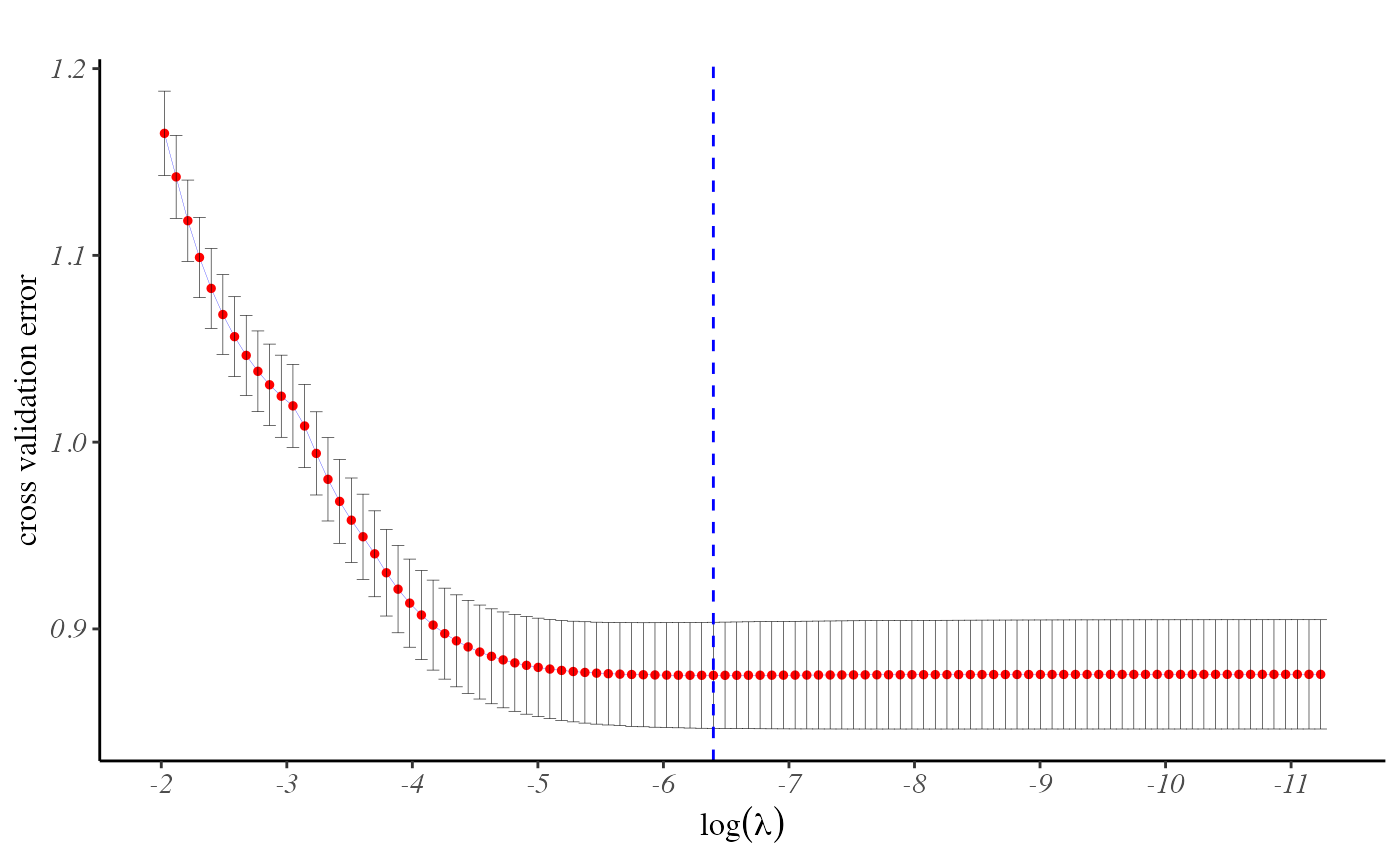
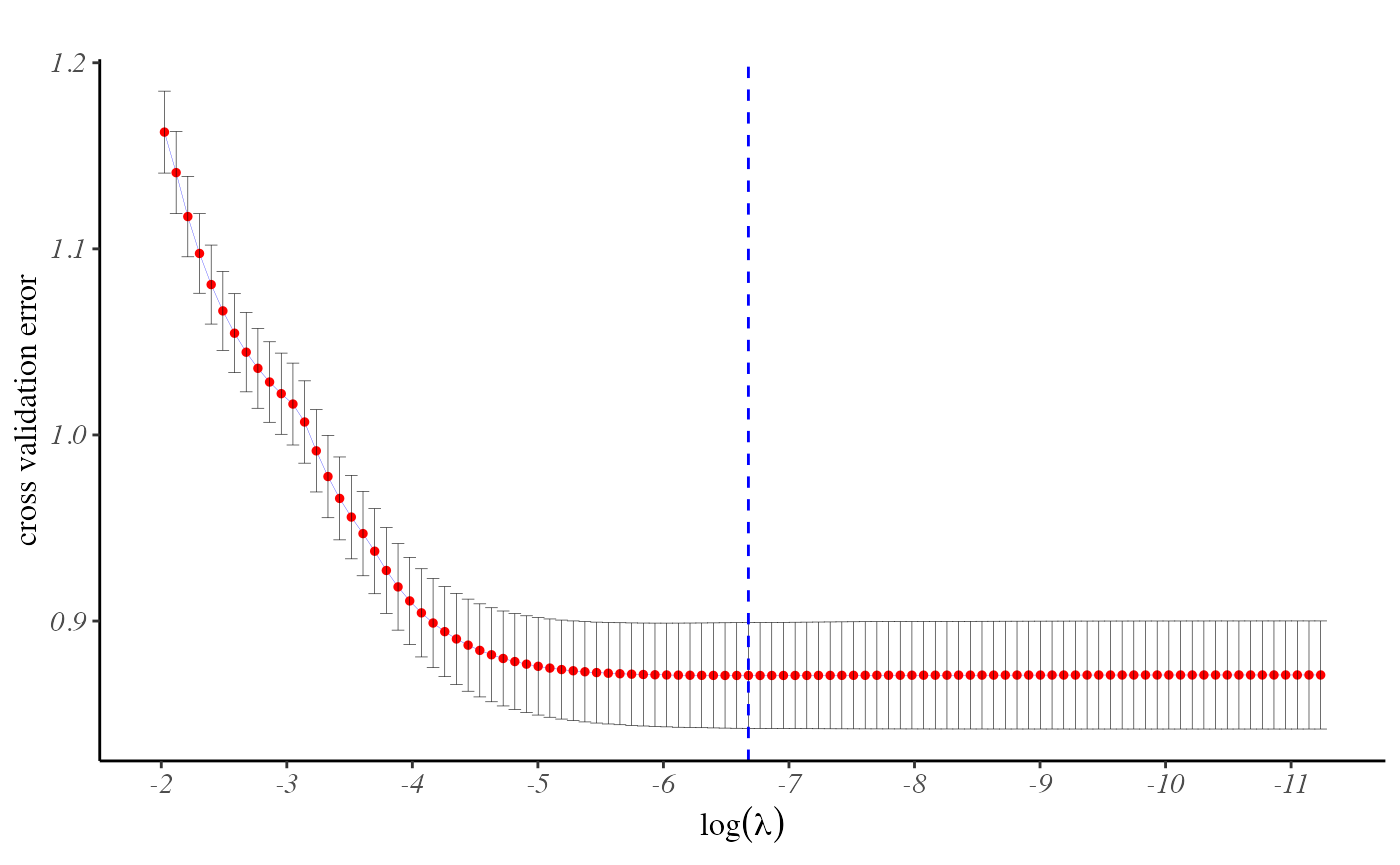
new commit

diff --git a/docs/articles/ppLasso.html b/docs/articles/ppLasso.html
@@ -133,13 +133,13 @@ information, and a binary outcome variable.</p>
 <span><span class="va">prov.char</span> <span class="op">&lt;-</span> <span class="va">GLM_Data</span><span class="op">$</span><span class="va">prov.char</span> <span class="co"># variable name of provider indicator</span></span>
 <span><span class="va">Z.char</span> <span class="op">&lt;-</span> <span class="va">GLM_Data</span><span class="op">$</span><span class="va">Z.char</span> <span class="co"># variable names of predictors</span></span>
 <span><span class="fu"><a href="https://rdrr.io/r/utils/head.html" class="external-link">head</a></span><span class="op">(</span><span class="va">data</span><span class="op">)</span></span>
-<span><span class="co">#&gt;      Y Prov.ID     Z1     Z2     Z3     Z4     Z5</span></span>
-<span><span class="co">#&gt; 733  1      10 -0.006 -0.159  0.588  0.378 -1.430</span></span>
-<span><span class="co">#&gt; 853  0      11  0.862 -0.162  0.243  0.503  0.549</span></span>
-<span><span class="co">#&gt; 813  0      11  0.453  0.961  0.665  0.522  0.859</span></span>
-<span><span class="co">#&gt; 576  1       8 -0.286  0.001  0.903  0.886 -0.324</span></span>
-<span><span class="co">#&gt; 968  0      13  0.564 -0.194 -0.062 -0.792 -0.783</span></span>
-<span><span class="co">#&gt; 1382 1      18  0.676  1.095  2.223  1.367  1.060</span></span></code></pre></div>
+<span><span class="co">#&gt;   Y Prov.ID     Z1     Z2     Z3     Z4     Z5</span></span>
+<span><span class="co">#&gt; 1 1      10 -0.006 -0.159  0.588  0.378 -1.430</span></span>
+<span><span class="co">#&gt; 2 0      11  0.862 -0.162  0.243  0.503  0.549</span></span>
+<span><span class="co">#&gt; 3 0      11  0.453  0.961  0.665  0.522  0.859</span></span>
+<span><span class="co">#&gt; 4 1       8 -0.286  0.001  0.903  0.886 -0.324</span></span>
+<span><span class="co">#&gt; 5 0      13  0.564 -0.194 -0.062 -0.792 -0.783</span></span>
+<span><span class="co">#&gt; 6 1      18  0.676  1.095  2.223  1.367  1.060</span></span></code></pre></div>
 <div class="section level4">
 <h4 id="without-grouped-covariate">without grouped covariate<a class="anchor" aria-label="anchor" href="#without-grouped-covariate"></a>
 </h4>
@@ -201,17 +201,17 @@ probabilities of “Y = 1” for each observation, while <strong>type =
 “class”</strong> provides the predicted class.</p>
 <div class="sourceCode" id="cb7"><pre class="downlit sourceCode r">
 <code class="sourceCode R"><span><span class="fu"><a href="https://rdrr.io/r/stats/predict.html" class="external-link">predict</a></span><span class="op">(</span><span class="va">fit</span>, <span class="va">data</span>, <span class="va">Z.char</span>, <span class="va">prov.char</span>, lambda <span class="op">=</span> <span class="va">fit</span><span class="op">$</span><span class="va">lambda</span>, type <span class="op">=</span> <span class="st">"response"</span><span class="op">)</span><span class="op">[</span><span class="fl">1</span><span class="op">:</span><span class="fl">10</span>, <span class="fl">1</span><span class="op">:</span><span class="fl">5</span><span class="op">]</span></span>
-<span><span class="co">#&gt;          0.132    0.1202    0.1096    0.0998     0.091</span></span>
-<span><span class="co">#&gt; 733  0.2874999 0.2996927 0.3106971 0.3206762 0.3297643</span></span>
-<span><span class="co">#&gt; 853  0.2051302 0.2112109 0.2163924 0.2208163 0.2246015</span></span>
-<span><span class="co">#&gt; 813  0.2051302 0.2191951 0.2321638 0.2441339 0.2551989</span></span>
-<span><span class="co">#&gt; 576  0.3947391 0.4208778 0.4449423 0.4671087 0.4875485</span></span>
-<span><span class="co">#&gt; 968  0.2345694 0.2340619 0.2330311 0.2316163 0.2299295</span></span>
-<span><span class="co">#&gt; 1382 0.3188411 0.3744516 0.4280555 0.4786478 0.5256182</span></span>
-<span><span class="co">#&gt; 1072 0.3924033 0.3836025 0.3752418 0.3673071 0.3597819</span></span>
-<span><span class="co">#&gt; 330  0.3658512 0.3870533 0.4065558 0.4245437 0.4411742</span></span>
-<span><span class="co">#&gt; 204  0.2298886 0.2256943 0.2215601 0.2175107 0.2135686</span></span>
-<span><span class="co">#&gt; 614  0.3947391 0.4374814 0.4772352 0.5139266 0.5476058</span></span>
+<span><span class="co">#&gt;           0.132    0.1202    0.1096    0.0998     0.091</span></span>
+<span><span class="co">#&gt;  [1,] 0.2874999 0.2996927 0.3106971 0.3206762 0.3297643</span></span>
+<span><span class="co">#&gt;  [2,] 0.2051302 0.2112109 0.2163924 0.2208163 0.2246015</span></span>
+<span><span class="co">#&gt;  [3,] 0.2051302 0.2191951 0.2321638 0.2441339 0.2551989</span></span>
+<span><span class="co">#&gt;  [4,] 0.3947391 0.4208778 0.4449423 0.4671087 0.4875485</span></span>
+<span><span class="co">#&gt;  [5,] 0.2345694 0.2340619 0.2330311 0.2316163 0.2299295</span></span>
+<span><span class="co">#&gt;  [6,] 0.3188411 0.3744516 0.4280555 0.4786478 0.5256182</span></span>
+<span><span class="co">#&gt;  [7,] 0.3924033 0.3836025 0.3752418 0.3673071 0.3597819</span></span>
+<span><span class="co">#&gt;  [8,] 0.3658512 0.3870533 0.4065558 0.4245437 0.4411742</span></span>
+<span><span class="co">#&gt;  [9,] 0.2298886 0.2256943 0.2215601 0.2175107 0.2135686</span></span>
+<span><span class="co">#&gt; [10,] 0.3947391 0.4374814 0.4772352 0.5139266 0.5476058</span></span>
 <span><span class="fu"><a href="https://rdrr.io/r/stats/predict.html" class="external-link">predict</a></span><span class="op">(</span><span class="va">fit</span>, <span class="va">data</span>, <span class="va">Z.char</span>, <span class="va">prov.char</span>, lambda <span class="op">=</span> <span class="fl">0.001</span>, type <span class="op">=</span> <span class="st">"class"</span><span class="op">)</span><span class="op">[</span><span class="fl">1</span><span class="op">:</span><span class="fl">10</span><span class="op">]</span></span>
 <span><span class="co">#&gt;  [1] 1 0 0 1 0 1 0 1 0 1</span></span></code></pre></div>
 </div>
@@ -260,7 +260,7 @@ cross-entropy loss is minimized.</p>
 command to obtain the optimal value of <span class="math inline">\(\lambda\)</span>.</p>
 <div class="sourceCode" id="cb11"><pre class="downlit sourceCode r">
 <code class="sourceCode R"><span><span class="va">fit</span><span class="op">$</span><span class="va">lambda.min</span></span>
-<span><span class="co">#&gt; [1] 0.001665105</span></span></code></pre></div>
+<span><span class="co">#&gt; [1] 0.001259591</span></span></code></pre></div>
 </div>
 </div>
 <div class="section level3">
@@ -284,12 +284,12 @@ illustrate how to utilize it.</p>
 <span><span class="va">Time.char</span> <span class="op">&lt;-</span> <span class="va">Surv_Data</span><span class="op">$</span><span class="va">Time.char</span></span>
 <span><span class="fu"><a href="https://rdrr.io/r/utils/head.html" class="external-link">head</a></span><span class="op">(</span><span class="va">data</span><span class="op">)</span></span>
 <span><span class="co">#&gt;   Prov.ID     Z1     Z2     Z3     Z4     Z5  time status</span></span>
-<span><span class="co">#&gt; 1       1  0.003 -0.012  0.077  0.128 -0.317 12.50      0</span></span>
-<span><span class="co">#&gt; 2       1  0.202  0.398 -0.843  1.011  0.006  6.74      1</span></span>
-<span><span class="co">#&gt; 3       1 -0.198  1.231  0.633  0.739  0.214  6.74      1</span></span>
-<span><span class="co">#&gt; 4       1 -0.077 -0.949 -0.779 -0.236 -0.862 12.50      1</span></span>
-<span><span class="co">#&gt; 5       1 -0.252 -0.817 -1.184 -1.380 -1.517  0.53      1</span></span>
-<span><span class="co">#&gt; 6       1 -1.014 -0.432 -1.259 -0.427 -0.433  6.74      1</span></span></code></pre></div>
+<span><span class="co">#&gt; 1       4 -1.298 -1.471 -1.346 -1.775 -1.241  1.03      1</span></span>
+<span><span class="co">#&gt; 2       5  0.192  0.163  0.953  1.083  0.371 12.50      0</span></span>
+<span><span class="co">#&gt; 3       4 -2.315 -2.038 -1.629 -2.577 -2.008  0.53      1</span></span>
+<span><span class="co">#&gt; 4       1 -0.198  1.231  0.633  0.739  0.214  6.74      1</span></span>
+<span><span class="co">#&gt; 5       2  0.469  0.640 -0.583  0.161  0.927 12.50      0</span></span>
+<span><span class="co">#&gt; 6       4 -1.445 -1.848 -3.024 -2.117 -1.894  0.53      1</span></span></code></pre></div>
 <div class="sourceCode" id="cb13"><pre class="downlit sourceCode r">
 <code class="sourceCode R"><span><span class="va">fit</span> <span class="op">&lt;-</span> <span class="fu"><a href="../reference/pp.DiscSurv.html">pp.DiscSurv</a></span><span class="op">(</span><span class="va">data</span>, <span class="va">Event.char</span>, <span class="va">prov.char</span>, <span class="va">Z.char</span>, <span class="va">Time.char</span><span class="op">)</span></span></code></pre></div>
 <p>The <code><a href="../reference/pp.DiscSurv.html">pp.DiscSurv()</a></code> function yields three main sets of
@@ -340,13 +340,13 @@ points within the prediction data set must align with the discrete time
 points used during model fitting. If they do not match, the baseline
 hazard of mismatches cannot be estimated accurately.</p>
 <div class="sourceCode" id="cb16"><pre class="downlit sourceCode r">
-<code class="sourceCode R"><span><span class="fu"><a href="https://rdrr.io/r/stats/predict.html" class="external-link">predict</a></span><span class="op">(</span><span class="va">fit</span>, <span class="va">data</span>, <span class="va">Event.char</span>, <span class="va">prov.char</span>, <span class="va">Z.char</span>, <span class="va">Time.char</span>, lambda <span class="op">=</span> <span class="va">fit</span><span class="op">$</span><span class="va">lambda</span>, type <span class="op">=</span> <span class="st">"response"</span>, which.lambda <span class="op">=</span> <span class="va">fit</span><span class="op">$</span><span class="va">lambda</span><span class="op">[</span><span class="fl">1</span><span class="op">]</span><span class="op">)</span><span class="op">[[</span><span class="fl">1</span><span class="op">]</span><span class="op">]</span><span class="op">[</span><span class="fl">1</span><span class="op">:</span><span class="fl">5</span>,<span class="op">]</span></span>
+<code class="sourceCode R"><span><span class="fu"><a href="https://rdrr.io/r/stats/predict.html" class="external-link">predict</a></span><span class="op">(</span><span class="va">fit</span>, <span class="va">data</span>, <span class="va">Event.char</span>, <span class="va">prov.char</span>, <span class="va">Z.char</span>, <span class="va">Time.char</span>, lambda <span class="op">=</span> <span class="va">fit</span><span class="op">$</span><span class="va">lambda</span>, type <span class="op">=</span> <span class="st">"response"</span>, which.lambda <span class="op">=</span> <span class="va">fit</span><span class="op">$</span><span class="va">lambda</span><span class="op">[</span><span class="fl">1</span><span class="op">]</span><span class="op">)</span><span class="op">[</span><span class="fl">1</span><span class="op">:</span><span class="fl">5</span>,<span class="op">]</span></span>
 <span><span class="co">#&gt;   Individual [Time: 0.53] [Time: 1.03] [Time: 3.92] [Time: 6.74] [Time: 12.5]</span></span>
-<span><span class="co">#&gt; 1          1    0.1586823    0.1852773    0.1649092    0.2224258    0.1441013</span></span>
-<span><span class="co">#&gt; 2          2    0.1586823    0.1852773    0.1649092    0.2224258           NA</span></span>
-<span><span class="co">#&gt; 3          3    0.1586823    0.1852773    0.1649092    0.2224258           NA</span></span>
-<span><span class="co">#&gt; 4          4    0.1586823    0.1852773    0.1649092    0.2224258    0.1441013</span></span>
-<span><span class="co">#&gt; 5          5    0.1586823           NA           NA           NA           NA</span></span></code></pre></div>
+<span><span class="co">#&gt; 1          1    0.1586823    0.1852773           NA           NA           NA</span></span>
+<span><span class="co">#&gt; 2          2    0.1586823    0.1852773    0.1649092    0.2224258    0.1441013</span></span>
+<span><span class="co">#&gt; 3          3    0.1586823           NA           NA           NA           NA</span></span>
+<span><span class="co">#&gt; 4          4    0.1586823    0.1852773    0.1649092    0.2224258           NA</span></span>
+<span><span class="co">#&gt; 5          5    0.1586823    0.1852773    0.1649092    0.2224258    0.1441013</span></span></code></pre></div>
 <div class="section level4">
 <h4 id="regularization-parameter-selection-for-discrete-survival-models">regularization parameter selection for discrete survival models<a class="anchor" aria-label="anchor" href="#regularization-parameter-selection-for-discrete-survival-models"></a>
 </h4>
@@ -375,7 +375,7 @@ the cross-entropy loss is minimized.</p>
 <p><img src="ppLasso_files/figure-html/unnamed-chunk-19-1.png" width="700"></p>
 <div class="sourceCode" id="cb19"><pre class="downlit sourceCode r">
 <code class="sourceCode R"><span><span class="va">fit</span><span class="op">$</span><span class="va">lambda.min</span></span>
-<span><span class="co">#&gt; [1] 0.003529344</span></span></code></pre></div>
+<span><span class="co">#&gt; [1] 0.002216531</span></span></code></pre></div>
 </div>
 </div>
 </div>

diff --git a/docs/reference/GLM_Data.html b/docs/reference/GLM_Data.html
@@ -1,5 +1,5 @@
 <!DOCTYPE html>
-<!-- Generated by pkgdown: do not edit by hand --><html lang="en"><head><meta http-equiv="Content-Type" content="text/html; charset=UTF-8"><meta charset="utf-8"><meta http-equiv="X-UA-Compatible" content="IE=edge"><meta name="viewport" content="width=device-width, initial-scale=1.0"><title>Example data for generalize lienar model — GLM_Data • ppLasso</title><!-- jquery --><script src="https://cdnjs.cloudflare.com/ajax/libs/jquery/3.4.1/jquery.min.js" integrity="sha256-CSXorXvZcTkaix6Yvo6HppcZGetbYMGWSFlBw8HfCJo=" crossorigin="anonymous"></script><!-- Bootstrap --><link href="https://cdnjs.cloudflare.com/ajax/libs/bootswatch/3.4.0/lumen/bootstrap.min.css" rel="stylesheet" crossorigin="anonymous"><script src="https://cdnjs.cloudflare.com/ajax/libs/twitter-bootstrap/3.4.1/js/bootstrap.min.js" integrity="sha256-nuL8/2cJ5NDSSwnKD8VqreErSWHtnEP9E7AySL+1ev4=" crossorigin="anonymous"></script><!-- bootstrap-toc --><link rel="stylesheet" href="../bootstrap-toc.css"><script src="../bootstrap-toc.js"></script><!-- Font Awesome icons --><link rel="stylesheet" href="https://cdnjs.cloudflare.com/ajax/libs/font-awesome/5.12.1/css/all.min.css" integrity="sha256-mmgLkCYLUQbXn0B1SRqzHar6dCnv9oZFPEC1g1cwlkk=" crossorigin="anonymous"><link rel="stylesheet" href="https://cdnjs.cloudflare.com/ajax/libs/font-awesome/5.12.1/css/v4-shims.min.css" integrity="sha256-wZjR52fzng1pJHwx4aV2AO3yyTOXrcDW7jBpJtTwVxw=" crossorigin="anonymous"><!-- clipboard.js --><script src="https://cdnjs.cloudflare.com/ajax/libs/clipboard.js/2.0.6/clipboard.min.js" integrity="sha256-inc5kl9MA1hkeYUt+EC3BhlIgyp/2jDIyBLS6k3UxPI=" crossorigin="anonymous"></script><!-- headroom.js --><script src="https://cdnjs.cloudflare.com/ajax/libs/headroom/0.11.0/headroom.min.js" integrity="sha256-AsUX4SJE1+yuDu5+mAVzJbuYNPHj/WroHuZ8Ir/CkE0=" crossorigin="anonymous"></script><script src="https://cdnjs.cloudflare.com/ajax/libs/headroom/0.11.0/jQuery.headroom.min.js" integrity="sha256-ZX/yNShbjqsohH1k95liqY9Gd8uOiE1S4vZc+9KQ1K4=" crossorigin="anonymous"></script><!-- pkgdown --><link href="../pkgdown.css" rel="stylesheet"><script src="../pkgdown.js"></script><meta property="og:title" content="Example data for generalize lienar model — GLM_Data"><meta property="og:description" content="A simulated data set containing response variable, provider information and 5 covariates."><!-- mathjax --><script src="https://cdnjs.cloudflare.com/ajax/libs/mathjax/2.7.5/MathJax.js" integrity="sha256-nvJJv9wWKEm88qvoQl9ekL2J+k/RWIsaSScxxlsrv8k=" crossorigin="anonymous"></script><script src="https://cdnjs.cloudflare.com/ajax/libs/mathjax/2.7.5/config/TeX-AMS-MML_HTMLorMML.js" integrity="sha256-84DKXVJXs0/F8OTMzX4UR909+jtl4G7SPypPavF+GfA=" crossorigin="anonymous"></script><!--[if lt IE 9]>
+<!-- Generated by pkgdown: do not edit by hand --><html lang="en"><head><meta http-equiv="Content-Type" content="text/html; charset=UTF-8"><meta charset="utf-8"><meta http-equiv="X-UA-Compatible" content="IE=edge"><meta name="viewport" content="width=device-width, initial-scale=1.0"><title>Example data for generalize linear model — GLM_Data • ppLasso</title><!-- jquery --><script src="https://cdnjs.cloudflare.com/ajax/libs/jquery/3.4.1/jquery.min.js" integrity="sha256-CSXorXvZcTkaix6Yvo6HppcZGetbYMGWSFlBw8HfCJo=" crossorigin="anonymous"></script><!-- Bootstrap --><link href="https://cdnjs.cloudflare.com/ajax/libs/bootswatch/3.4.0/lumen/bootstrap.min.css" rel="stylesheet" crossorigin="anonymous"><script src="https://cdnjs.cloudflare.com/ajax/libs/twitter-bootstrap/3.4.1/js/bootstrap.min.js" integrity="sha256-nuL8/2cJ5NDSSwnKD8VqreErSWHtnEP9E7AySL+1ev4=" crossorigin="anonymous"></script><!-- bootstrap-toc --><link rel="stylesheet" href="../bootstrap-toc.css"><script src="../bootstrap-toc.js"></script><!-- Font Awesome icons --><link rel="stylesheet" href="https://cdnjs.cloudflare.com/ajax/libs/font-awesome/5.12.1/css/all.min.css" integrity="sha256-mmgLkCYLUQbXn0B1SRqzHar6dCnv9oZFPEC1g1cwlkk=" crossorigin="anonymous"><link rel="stylesheet" href="https://cdnjs.cloudflare.com/ajax/libs/font-awesome/5.12.1/css/v4-shims.min.css" integrity="sha256-wZjR52fzng1pJHwx4aV2AO3yyTOXrcDW7jBpJtTwVxw=" crossorigin="anonymous"><!-- clipboard.js --><script src="https://cdnjs.cloudflare.com/ajax/libs/clipboard.js/2.0.6/clipboard.min.js" integrity="sha256-inc5kl9MA1hkeYUt+EC3BhlIgyp/2jDIyBLS6k3UxPI=" crossorigin="anonymous"></script><!-- headroom.js --><script src="https://cdnjs.cloudflare.com/ajax/libs/headroom/0.11.0/headroom.min.js" integrity="sha256-AsUX4SJE1+yuDu5+mAVzJbuYNPHj/WroHuZ8Ir/CkE0=" crossorigin="anonymous"></script><script src="https://cdnjs.cloudflare.com/ajax/libs/headroom/0.11.0/jQuery.headroom.min.js" integrity="sha256-ZX/yNShbjqsohH1k95liqY9Gd8uOiE1S4vZc+9KQ1K4=" crossorigin="anonymous"></script><!-- pkgdown --><link href="../pkgdown.css" rel="stylesheet"><script src="../pkgdown.js"></script><meta property="og:title" content="Example data for generalize linear model — GLM_Data"><meta property="og:description" content="A simulated data set containing response variable, provider information and 5 covariates."><!-- mathjax --><script src="https://cdnjs.cloudflare.com/ajax/libs/mathjax/2.7.5/MathJax.js" integrity="sha256-nvJJv9wWKEm88qvoQl9ekL2J+k/RWIsaSScxxlsrv8k=" crossorigin="anonymous"></script><script src="https://cdnjs.cloudflare.com/ajax/libs/mathjax/2.7.5/config/TeX-AMS-MML_HTMLorMML.js" integrity="sha256-84DKXVJXs0/F8OTMzX4UR909+jtl4G7SPypPavF+GfA=" crossorigin="anonymous"></script><!--[if lt IE 9]>
 <script src="https://oss.maxcdn.com/html5shiv/3.7.3/html5shiv.min.js"></script>
 <script src="https://oss.maxcdn.com/respond/1.4.2/respond.min.js"></script>
 <![endif]--><!-- Global site tag (gtag.js) - Google Analytics --><script async src="https://www.googletagmanager.com/gtag/js?id=UA-54921687-5"></script><script>
@@ -53,7 +53,7 @@
       </header><div class="row">
   <div class="col-md-9 contents">
     <div class="page-header">
-    <h1>Example data for generalize lienar model</h1>
+    <h1>Example data for generalize linear model</h1>
     
     <div class="hidden name"><code>GLM_Data.Rd</code></div>
     </div>
@@ -69,7 +69,7 @@
     <div id="format">
     <h2>Format</h2>
     <p>A list containing the following elements:</p><dl><dt>data</dt>
-<dd><p>example data. <code>Y</code> is the response variable; <code>Prov.ID</code> is the provider indicator; <code>Z1</code>, ..., <code>Z5</code> are 5 continuous covariates.</p></dd>
+<dd><p>example data. <code>Y</code> is the response variable; <code>Prov.ID</code> is the center indicator (include 20 centers); <code>Z1</code>, ..., <code>Z5</code> are 5 continuous covariates.</p></dd>
 
   <dt>Y.char</dt>
 <dd><p>variable name of the response variable.</p></dd>
@@ -87,6 +87,21 @@
 
 </dl></div>
 
+    <div id="ref-examples">
+    <h2>Examples</h2>
+    <div class="sourceCode"><pre class="sourceCode r"><code><span class="r-in"><span><span class="fu"><a href="https://rdrr.io/r/utils/data.html" class="external-link">data</a></span><span class="op">(</span><span class="va">GLM_Data</span><span class="op">)</span></span></span>
+<span class="r-in"><span><span class="va">data</span> <span class="op">&lt;-</span> <span class="va">GLM_Data</span><span class="op">$</span><span class="va">data</span></span></span>
+<span class="r-in"><span><span class="fu"><a href="https://rdrr.io/r/utils/head.html" class="external-link">head</a></span><span class="op">(</span><span class="va">data</span><span class="op">)</span></span></span>
+<span class="r-out co"><span class="r-pr">#&gt;</span>   Y Prov.ID     Z1     Z2     Z3     Z4     Z5</span>
+<span class="r-out co"><span class="r-pr">#&gt;</span> 1 1      10 -0.006 -0.159  0.588  0.378 -1.430</span>
+<span class="r-out co"><span class="r-pr">#&gt;</span> 2 0      11  0.862 -0.162  0.243  0.503  0.549</span>
+<span class="r-out co"><span class="r-pr">#&gt;</span> 3 0      11  0.453  0.961  0.665  0.522  0.859</span>
+<span class="r-out co"><span class="r-pr">#&gt;</span> 4 1       8 -0.286  0.001  0.903  0.886 -0.324</span>
+<span class="r-out co"><span class="r-pr">#&gt;</span> 5 0      13  0.564 -0.194 -0.062 -0.792 -0.783</span>
+<span class="r-out co"><span class="r-pr">#&gt;</span> 6 1      18  0.676  1.095  2.223  1.367  1.060</span>
+<span class="r-in"><span></span></span>
+</code></pre></div>
+    </div>
   </div>
   <div class="col-md-3 hidden-xs hidden-sm" id="pkgdown-sidebar">
     <nav id="toc" data-toggle="toc" class="sticky-top"><h2 data-toc-skip>Contents</h2>

diff --git a/docs/reference/cv.pp.DiscSurv.html b/docs/reference/cv.pp.DiscSurv.html
@@ -184,23 +184,23 @@
 <span class="r-out co"><span class="r-pr">#&gt;</span> Starting CV fold #9...</span>
 <span class="r-out co"><span class="r-pr">#&gt;</span> Starting CV fold #10...</span>
 <span class="r-in"><span><span class="va">cv.fit</span><span class="op">$</span><span class="va">cve</span></span></span>
-<span class="r-out co"><span class="r-pr">#&gt;</span>   [1] 0.5587751 0.4642496 0.4527661 0.4431458 0.4350471 0.4282113 0.4224416</span>
-<span class="r-out co"><span class="r-pr">#&gt;</span>   [8] 0.4168445 0.4110235 0.4052911 0.4002972 0.3960563 0.3924738 0.3894283</span>
-<span class="r-out co"><span class="r-pr">#&gt;</span>  [15] 0.3868221 0.3846092 0.3826782 0.3810487 0.3796856 0.3784700 0.3773758</span>
-<span class="r-out co"><span class="r-pr">#&gt;</span>  [22] 0.3764733 0.3754775 0.3742380 0.3728213 0.3714393 0.3702827 0.3693135</span>
-<span class="r-out co"><span class="r-pr">#&gt;</span>  [29] 0.3684652 0.3677340 0.3671068 0.3665585 0.3660979 0.3657216 0.3654121</span>
-<span class="r-out co"><span class="r-pr">#&gt;</span>  [36] 0.3651597 0.3649585 0.3647947 0.3646619 0.3645576 0.3644752 0.3644105</span>
-<span class="r-out co"><span class="r-pr">#&gt;</span>  [43] 0.3643631 0.3643258 0.3642985 0.3642779 0.3642648 0.3642594 0.3642563</span>
-<span class="r-out co"><span class="r-pr">#&gt;</span>  [50] 0.3642542 0.3642552 0.3642569 0.3642604 0.3642686 0.3642749 0.3642813</span>
-<span class="r-out co"><span class="r-pr">#&gt;</span>  [57] 0.3642879 0.3642940 0.3643018 0.3643092 0.3643137 0.3643201 0.3643269</span>
-<span class="r-out co"><span class="r-pr">#&gt;</span>  [64] 0.3643318 0.3643374 0.3643401 0.3643450 0.3643506 0.3643530 0.3643586</span>
-<span class="r-out co"><span class="r-pr">#&gt;</span>  [71] 0.3643607 0.3643655 0.3643679 0.3643707 0.3643727 0.3643741 0.3643780</span>
-<span class="r-out co"><span class="r-pr">#&gt;</span>  [78] 0.3643778 0.3643793 0.3643809 0.3643842 0.3643849 0.3643869 0.3643883</span>
-<span class="r-out co"><span class="r-pr">#&gt;</span>  [85] 0.3643895 0.3643894 0.3643920 0.3643915 0.3643917 0.3643935 0.3643937</span>
-<span class="r-out co"><span class="r-pr">#&gt;</span>  [92] 0.3643940 0.3643958 0.3643932 0.3643952 0.3643970 0.3643965 0.3643962</span>
-<span class="r-out co"><span class="r-pr">#&gt;</span>  [99] 0.3643969 0.3643975</span>
+<span class="r-out co"><span class="r-pr">#&gt;</span>   [1] 0.5570408 0.4654882 0.4541073 0.4445862 0.4365787 0.4298319 0.4241022</span>
+<span class="r-out co"><span class="r-pr">#&gt;</span>   [8] 0.4184227 0.4124547 0.4068606 0.4020815 0.3980066 0.3945837 0.3916889</span>
+<span class="r-out co"><span class="r-pr">#&gt;</span>  [15] 0.3892216 0.3870409 0.3851005 0.3834329 0.3820309 0.3808578 0.3798811</span>
+<span class="r-out co"><span class="r-pr">#&gt;</span>  [22] 0.3790833 0.3783516 0.3772634 0.3757653 0.3745352 0.3735369 0.3727326</span>
+<span class="r-out co"><span class="r-pr">#&gt;</span>  [29] 0.3720931 0.3715562 0.3711336 0.3707951 0.3704853 0.3701942 0.3699301</span>
+<span class="r-out co"><span class="r-pr">#&gt;</span>  [36] 0.3697237 0.3695625 0.3694400 0.3693438 0.3692745 0.3692243 0.3691933</span>
+<span class="r-out co"><span class="r-pr">#&gt;</span>  [43] 0.3691710 0.3691590 0.3691595 0.3691665 0.3691698 0.3691822 0.3691964</span>
+<span class="r-out co"><span class="r-pr">#&gt;</span>  [50] 0.3692101 0.3692293 0.3692444 0.3692636 0.3692804 0.3692978 0.3693137</span>
+<span class="r-out co"><span class="r-pr">#&gt;</span>  [57] 0.3693293 0.3693459 0.3693592 0.3693735 0.3693850 0.3693966 0.3694097</span>
+<span class="r-out co"><span class="r-pr">#&gt;</span>  [64] 0.3694187 0.3694291 0.3694386 0.3694452 0.3694521 0.3694633 0.3694685</span>
+<span class="r-out co"><span class="r-pr">#&gt;</span>  [71] 0.3694735 0.3694798 0.3694844 0.3694903 0.3694920 0.3694959 0.3694994</span>
+<span class="r-out co"><span class="r-pr">#&gt;</span>  [78] 0.3695020 0.3695079 0.3695089 0.3695110 0.3695127 0.3695174 0.3695185</span>
+<span class="r-out co"><span class="r-pr">#&gt;</span>  [85] 0.3695202 0.3695222 0.3695233 0.3695230 0.3695266 0.3695280 0.3695285</span>
+<span class="r-out co"><span class="r-pr">#&gt;</span>  [92] 0.3695299 0.3695304 0.3695313 0.3695322 0.3695328 0.3695330 0.3695342</span>
+<span class="r-out co"><span class="r-pr">#&gt;</span>  [99] 0.3695348 0.3695344</span>
 <span class="r-in"><span><span class="va">cv.fit</span><span class="op">$</span><span class="va">lambda.min</span></span></span>
-<span class="r-out co"><span class="r-pr">#&gt;</span> [1] 0.001676724</span>
+<span class="r-out co"><span class="r-pr">#&gt;</span> [1] 0.002930123</span>
 <span class="r-in"><span></span></span>
 </code></pre></div>
     </div>

diff --git a/docs/reference/coef.ppDiscSurv.html b/docs/reference/coef.ppDiscSurv.html
@@ -107,11 +107,11 @@
 <span class="r-out co"><span class="r-pr">#&gt;</span> Z4      0  0.0000000  0.0000000  0.0000000  0.0000000  0.0000000  0.0000000</span>
 <span class="r-out co"><span class="r-pr">#&gt;</span> Z5      0  0.0000000  0.0000000  0.0000000  0.0000000  0.0000000  0.0000000</span>
 <span class="r-out co"><span class="r-pr">#&gt;</span>         0.0835      0.076     0.0693</span>
-<span class="r-out co"><span class="r-pr">#&gt;</span> Z1 -0.95601473 -1.0366916 -1.1130591</span>
+<span class="r-out co"><span class="r-pr">#&gt;</span> Z1 -0.95606196 -1.0366969 -1.1131578</span>
 <span class="r-out co"><span class="r-pr">#&gt;</span> Z2  0.00000000  0.0000000  0.0000000</span>
 <span class="r-out co"><span class="r-pr">#&gt;</span> Z3  0.00000000  0.0000000  0.0000000</span>
 <span class="r-out co"><span class="r-pr">#&gt;</span> Z4  0.00000000  0.0000000  0.0000000</span>
-<span class="r-out co"><span class="r-pr">#&gt;</span> Z5 -0.05145498 -0.1332482 -0.2103548</span>
+<span class="r-out co"><span class="r-pr">#&gt;</span> Z5 -0.05153273 -0.1332636 -0.2100815</span>
 <span class="r-in"><span><span class="fu"><a href="https://rdrr.io/r/stats/coef.html" class="external-link">coef</a></span><span class="op">(</span><span class="va">fit</span>, lambda <span class="op">=</span> <span class="va">fit</span><span class="op">$</span><span class="va">lambda</span><span class="op">)</span><span class="op">$</span><span class="va">gamma</span><span class="op">[</span>, <span class="fl">1</span><span class="op">:</span><span class="fl">10</span><span class="op">]</span></span></span>
 <span class="r-out co"><span class="r-pr">#&gt;</span>       0.1601     0.1458    0.1329     0.1211     0.1103     0.1005     0.0916</span>
 <span class="r-out co"><span class="r-pr">#&gt;</span> 1  0.0000000  0.0000000  0.000000  0.0000000  0.0000000  0.0000000  0.0000000</span>
@@ -121,10 +121,10 @@
 <span class="r-out co"><span class="r-pr">#&gt;</span> 5 -2.3399410 -2.1966372 -2.070536 -1.9577270 -1.8555876 -1.7631029 -1.6791563</span>
 <span class="r-out co"><span class="r-pr">#&gt;</span>       0.0835      0.076     0.0693</span>
 <span class="r-out co"><span class="r-pr">#&gt;</span> 1  0.0000000  0.0000000  0.0000000</span>
-<span class="r-out co"><span class="r-pr">#&gt;</span> 2 -3.4189533 -3.2395820 -3.0737683</span>
-<span class="r-out co"><span class="r-pr">#&gt;</span> 3 -0.5723221 -0.5326157 -0.4957894</span>
-<span class="r-out co"><span class="r-pr">#&gt;</span> 4  0.7159420  0.6308187  0.5521452</span>
-<span class="r-out co"><span class="r-pr">#&gt;</span> 5 -1.5746144 -1.4586078 -1.3509929</span>
+<span class="r-out co"><span class="r-pr">#&gt;</span> 2 -3.4187270 -3.2395884 -3.0740519</span>
+<span class="r-out co"><span class="r-pr">#&gt;</span> 3 -0.5722253 -0.5326772 -0.4958210</span>
+<span class="r-out co"><span class="r-pr">#&gt;</span> 4  0.7159105  0.6306904  0.5524755</span>
+<span class="r-out co"><span class="r-pr">#&gt;</span> 5 -1.5744543 -1.4586413 -1.3511342</span>
 </code></pre></div>
     </div>
   </div>

diff --git a/docs/reference/Surv_Data.html b/docs/reference/Surv_Data.html
@@ -69,7 +69,7 @@
     <div id="format">
     <h2>Format</h2>
     <p>A list containing the following elements:</p><dl><dt>data</dt>
-<dd><p>example data.<code>time</code> represents the observation time; <code>status</code> is the event indicator; <code>Prov.ID</code> is the provider indicator; <code>Z1</code>, ..., <code>Z5</code> are 5 continuous covariates.</p></dd>
+<dd><p>example data.<code>time</code> represents the observation time; <code>status</code> is the event indicator; <code>Prov.ID</code> is the center indicator (include 5 centers); <code>Z1</code>, ..., <code>Z5</code> are 5 continuous covariates.</p></dd>
 
   <dt>Event.char</dt>
 <dd><p>variable name of the event indicator.</p></dd>
@@ -86,6 +86,20 @@
 
 </dl></div>
 
+    <div id="ref-examples">
+    <h2>Examples</h2>
+    <div class="sourceCode"><pre class="sourceCode r"><code><span class="r-in"><span><span class="fu"><a href="https://rdrr.io/r/utils/data.html" class="external-link">data</a></span><span class="op">(</span><span class="va">Surv_Data</span><span class="op">)</span></span></span>
+<span class="r-in"><span><span class="va">data</span> <span class="op">&lt;-</span> <span class="va">Surv_Data</span><span class="op">$</span><span class="va">data</span></span></span>
+<span class="r-in"><span><span class="fu"><a href="https://rdrr.io/r/utils/head.html" class="external-link">head</a></span><span class="op">(</span><span class="va">data</span><span class="op">)</span></span></span>
+<span class="r-out co"><span class="r-pr">#&gt;</span>   Prov.ID     Z1     Z2     Z3     Z4     Z5  time status</span>
+<span class="r-out co"><span class="r-pr">#&gt;</span> 1       4 -1.298 -1.471 -1.346 -1.775 -1.241  1.03      1</span>
+<span class="r-out co"><span class="r-pr">#&gt;</span> 2       5  0.192  0.163  0.953  1.083  0.371 12.50      0</span>
+<span class="r-out co"><span class="r-pr">#&gt;</span> 3       4 -2.315 -2.038 -1.629 -2.577 -2.008  0.53      1</span>
+<span class="r-out co"><span class="r-pr">#&gt;</span> 4       1 -0.198  1.231  0.633  0.739  0.214  6.74      1</span>
+<span class="r-out co"><span class="r-pr">#&gt;</span> 5       2  0.469  0.640 -0.583  0.161  0.927 12.50      0</span>
+<span class="r-out co"><span class="r-pr">#&gt;</span> 6       4 -1.445 -1.848 -3.024 -2.117 -1.894  0.53      1</span>
+</code></pre></div>
+    </div>
   </div>
   <div class="col-md-3 hidden-xs hidden-sm" id="pkgdown-sidebar">
     <nav id="toc" data-toggle="toc" class="sticky-top"><h2 data-toc-skip>Contents</h2>

diff --git a/docs/reference/cv.grp.lasso.html b/docs/reference/cv.grp.lasso.html
@@ -170,7 +170,7 @@
 <span class="r-in"><span><span class="va">cv.fit</span> <span class="op">&lt;-</span> <span class="fu">cv.grp.lasso</span><span class="op">(</span><span class="va">data</span>, <span class="va">Y.char</span>, <span class="va">Z.char</span>, <span class="va">prov.char</span>, group <span class="op">=</span> <span class="va">group</span>, nfolds <span class="op">=</span> <span class="fl">10</span><span class="op">)</span></span></span>
 <span class="r-in"><span><span class="co"># the best lambda using cross validation</span></span></span>
 <span class="r-in"><span><span class="va">cv.fit</span><span class="op">$</span><span class="va">lambda.min</span></span></span>
-<span class="r-out co"><span class="r-pr">#&gt;</span> [1] 0.001300524</span>
+<span class="r-out co"><span class="r-pr">#&gt;</span> [1] 0.001566486</span>
 <span class="r-in"><span></span></span>
 </code></pre></div>
     </div>

diff --git a/docs/reference/cv.pp.lasso.html b/docs/reference/cv.pp.lasso.html
@@ -169,7 +169,7 @@
 <span class="r-in"><span><span class="va">cv.fit</span> <span class="op">&lt;-</span> <span class="fu">cv.pp.lasso</span><span class="op">(</span><span class="va">data</span>, <span class="va">Y.char</span>, <span class="va">Z.char</span>, <span class="va">prov.char</span>, nfolds <span class="op">=</span> <span class="fl">10</span><span class="op">)</span></span></span>
 <span class="r-in"><span><span class="co"># the best lambda using cross validation</span></span></span>
 <span class="r-in"><span><span class="va">cv.fit</span><span class="op">$</span><span class="va">lambda.min</span></span></span>
-<span class="r-out co"><span class="r-pr">#&gt;</span> [1] 0.001827451</span>
+<span class="r-out co"><span class="r-pr">#&gt;</span> [1] 0.001259591</span>
 <span class="r-in"><span></span></span>
 </code></pre></div>
     </div>

diff --git a/docs/reference/grp.lasso.html b/docs/reference/grp.lasso.html
@@ -255,7 +255,7 @@ and the number of columns is equal to nlambda.</p></dd>
     </div>
     <div id="see-also">
     <h2>See also</h2>
-    <div class="dont-index"><p><code><a href="https://rdrr.io/r/stats/coef.html" class="external-link">coef</a></code> function.</p></div>
+    <div class="dont-index"><p><code><a href="https://rdrr.io/r/stats/coef.html" class="external-link">coef</a></code>, <code><a href="https://rdrr.io/r/graphics/plot.default.html" class="external-link">plot</a></code> function.</p></div>
     </div>
 
     <div id="ref-examples">

diff --git a/docs/reference/index.html b/docs/reference/index.html
@@ -139,7 +139,7 @@
       </tr></tbody><tbody><tr><td>
           <p><code><a href="GLM_Data.html">GLM_Data</a></code> </p>
         </td>
-        <td><p>Example data for generalize lienar model</p></td>
+        <td><p>Example data for generalize linear model</p></td>
       </tr><tr><td>
           <p><code><a href="Surv_Data.html">Surv_Data</a></code> </p>
         </td>
